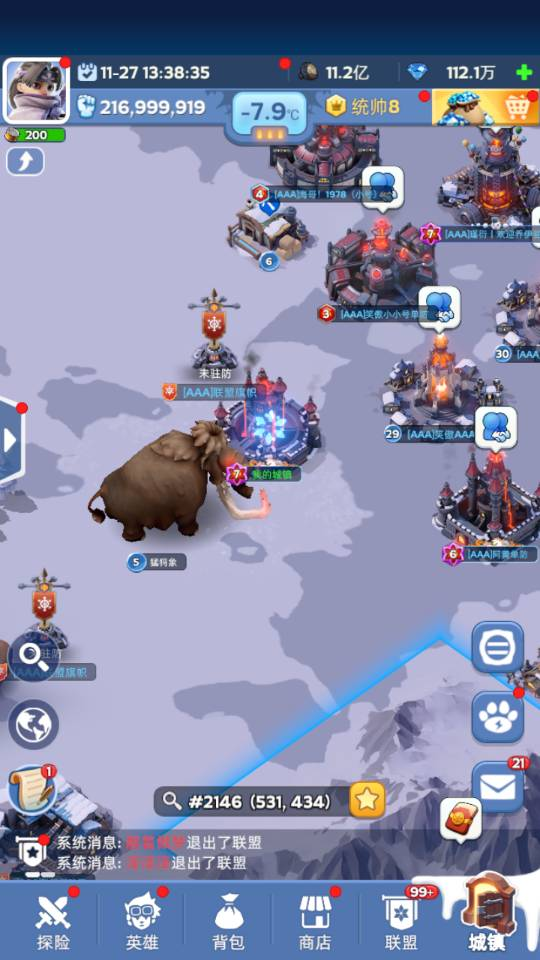
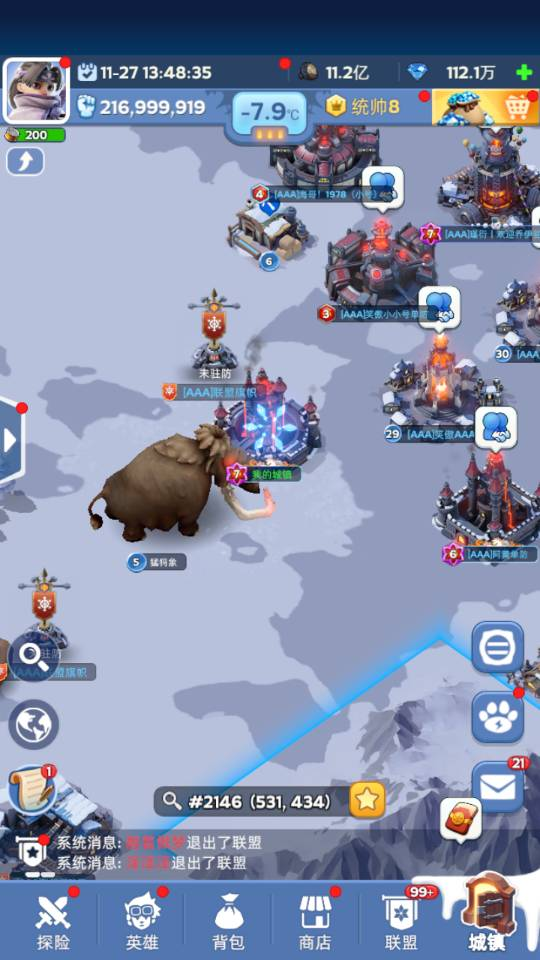
status update 11-27 13:48

diff --git a/wd-status/index.html b/wd-status/index.html
@@ -17,10 +17,10 @@ code{font-family:ui-monospace,monospace;font-size:11px;color:#a8c7fa}
 .big{font-size:15px}
 </style></head><body>
 <h1>❄ 无尽冬日挂机状态</h1>
-<div class=sub>打开时实时拉取 log.jsonl(本机每~5分钟推送) · 页面每5分钟自动刷新 · 生成于 2026-11-27 13:38:35</div>
+<div class=sub>打开时实时拉取 log.jsonl(本机每~5分钟推送) · 页面每5分钟自动刷新 · 生成于 2026-11-27 13:48:35</div>
 <div class="card"><h2>总览</h2><div class=big>
 主循环: <span class=bad>停止 ❌ (inactive)</span><br>
-最近日志: <span class=bad>41638秒前</span> ·
+最近日志: <span class=bad>42238秒前</span> ·
 看守异常(近10小时): <span class="ok">0 次</span><br>
 最后事件: <code>{}</code>
 </div></div>
